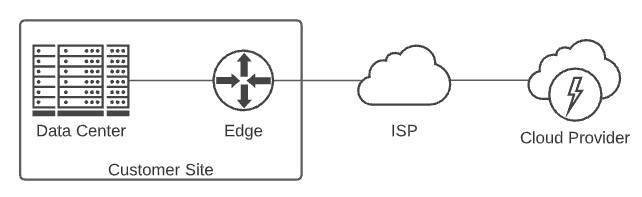
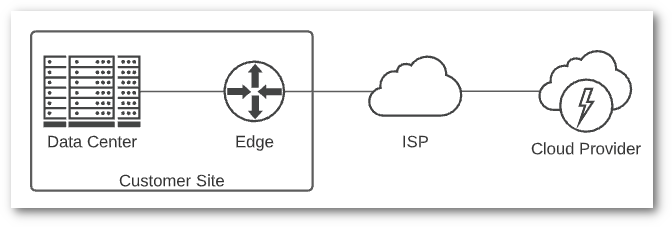
New post + drop shadows

Changed region(s): [[0.0, 0.0609, 0.9969, 0.9746], [0.5919, 0.5787, 0.6542, 0.7005]]

diff --git a/_posts/2020-11-17-cloud-connectivity-101.md b/_posts/2020-11-17-cloud-connectivity-101.md
@@ -1,0 +1,107 @@
+---
+layout: post
+theme: jekyll-theme-modernist
+title: "Cloud Connectivity 101"
+date: 2020-11-17
+comments: true
+---
+
+{: .center}
+![]({{ "/resources/2020/11/lightning.png" | absolute_url }})
+
+With my [prior post]({% link _posts/2020-11-12-network-princples-cloud.md %}) in mind, we can look at the various methods available for connecting to the cloud. This isn’t intended to be an exhaustive list, but it should cover the vast majority of your options.
+
+## Public IP
+**Pros**: Ubiquitous, inexpensive<br>
+**Cons**: Potentially insecure, no performance guarantees<br>
+**What you’ll need**: A business-class internet circuit<br>
+
+{: .center}
+![]({{ "/resources/2020/11/cloud-public-ip.png" | absolute_url }})
+
+Regardless of the other methods listed, you’ll connect to a cloud provider over Public IP the first time you connect to their console to set up your account. Depending on what you host in the cloud, this may be the only connectivity you need. It’s the easiest way to get to the cloud, but also the least secure. If you’re transferring sensitive information over the public internet, make sure you leverage modern application-based encryption, whether over TLS/HTTPS, SSH or some other protocol.
+
+Assuming we’re talking about [Infrastructure as a Service (IaaS)](https://en.wikipedia.org/wiki/Infrastructure_as_a_service) and running virtual instances in the cloud, there are variations between providers around how public IPs are assigned. It’s important to understand how your provider assigns addresses, and how they recommend exposing them to the internet. Frequently a load balancer is used for this, and it’s a good idea to use one even if you’re starting small. It’s easier to start with a load balancer than move to one later.
+
+Public connectivity is not well suited for the typical backend administrative access you’d see in a traditional data center. No security team would recommend exposing all your servers to the internet. Addressing this will likely require adding in one of the connection methods listed below, like a VPN.
+
+Cloud providers allow tight integration between resources you deploy and their hosted DNS solution, but it will still be up to you to configure it properly. Take time to learn the various network services provided, as they will be similar to the network appliances you deploy on prem, but the capabilities and requirements may be different from what you’re used to. As I mentioned previously, there are many options for applying security policy in the cloud, so developing a solid security strategy should be one of the first things you do.
+
+The remaining connection methods, apart from Direct Connection and Network as a Service, build on top of Public IP connectivity. 
+
+## Traditional VPN
+**Pros**: Secures sensitive traffic<br>
+**Cons**: Requires additional hardware or software, potential performance bottleneck, does not scale well<br>
+**What you’ll need**: Hardware or software capable of terminating an IPSec or SSL VPN tunnel<br>
+
+{: .center}
+![]({{ "/resources/2020/11/cloud-trad-ipsec.png" | absolute_url }})
+
+Layering a [VPN](https://en.wikipedia.org/wiki/Virtual_private_network) on top of Public IP connectivity will provide a secure connection into your cloud resources. All cloud providers support [IPSec](https://en.wikipedia.org/wiki/IPsec) tunnels, and most support establishing [BGP](https://en.wikipedia.org/wiki/Border_Gateway_Protocol) peering over the tunnel to exchange routes. If you need client-based SSL VPN you will need to deploy a network appliance in your cloud environment, but there are [numerous](https://aws.amazon.com/marketplace/b/Network-Infrastructure/2649366011) [options](https://azuremarketplace.microsoft.com/en-us/marketplace/apps/category/networking?subcategories=firewalls&page=1) [available](https://console.cloud.google.com/marketplace/browse?filter=category:networking).
+
+Using a VPN is the easiest way to build a [hybrid cloud](https://en.wikipedia.org/wiki/Cloud_computing#Hybrid_cloud) solution, and it will give you a secure way to access any instances you’ve deployed via their private IP. If you were paying attention to what I wrote earlier in my previous post, you know that you should have a good IP addressing scheme that includes non-overlapping IP ranges for everything you’re deploying on prem and in the cloud. This becomes even more important if you’re deploying resources into multiple regions in a single cloud provider, or multiple cloud providers.
+
+VPNs, like most technologies, evolve over time, so if you have an aging VPN solution in your environment you may want to consider replacing it with a modern one. Policy-based IPSec VPNs have been around for decades, but cloud providers are encouraging route-based VPNs, which is what you'll have to use if you want dynamic routing over VPN. As your environment scales, dynamic routing becomes increasingly important, so if you aren’t comfortable with BGP now is the time to learn it.
+
+## Layer 2 VPN
+**Pros**: IP Mobility<br>
+**Cons**: Requires additional hardware or software, potential performance bottleneck, not recommended for long term deployments<br>
+**What you’ll need**: Specialized hardware or software capable of building an L2 tunnel<br>
+
+{: .center}
+![]({{ "/resources/2020/11/cloud-l2vpn.png" | absolute_url }})
+
+A Layer 2 VPN is used to span a Layer 2 segment, typically a VLAN, across a WAN link. I don’t have scientific data to back this up, but I’d bet a milkshake that if you asked a hundred network engineers if spanning Layer 2 across sites is a good idea, ninety-nine of them would say no. Spanning layer 2 across sites, or over a VPN, introduces complexity and does not scale well. There are some good reasons to do it, but I would never recommend it as a long-term solution.
+
+Normally, a layer 2 VPN is used to migrate existing VMs to another site or cloud provider, while preserving assigned IP addresses. Common scenarios are disaster recovery and data center evacuation. I won’t go on another rant about the importance of DNS, but you can see why I climbed up on that soapbox. Putting that aside, if everyone involved knows the risks introduced by stretched L2, and it’s temporary, it can be a handy tool.
+
+There are a handful of options for L2 VPN, including [VMware HCX](https://cloud.vmware.com/vmware-hcx) and [NSX L2VPN](https://docs.vmware.com/en/VMware-NSX-T-Data-Center/2.5/administration/GUID-86C8D6BB-F185-46DC-828C-1E1876B854E8.html). These have been verified to work in supported cloud providers, but if you choose another solution, be careful to make sure that it is supported by your cloud provider. There is no traditional layer 2 forwarding in most native cloud provider networks, so an overlay like [VXLAN](https://en.wikipedia.org/wiki/Virtual_Extensible_LAN) or [GENEVE](https://en.wikipedia.org/wiki/Generic_Networking_Virtualization_Encapsulation) is used to emulate layer 2 semantics. These overlays encapsulate packets in UDP, so large packets will be fragmented when transmitted over a WAN link. Unless there is a solution for local traffic egress, there will be tromboning of traffic across the L2VPN for any remote endpoints to reach their default gateway.
+
+My advice is to stick to routed layer 3 traffic if possible, even if it takes some work to get there. L2VPN is a tool that can be deployed if absolutely necessary.
+
+## SD-WAN
+**Pros**: Flexibility, scalability, potential cost savings<br>
+**Cons**: Requires additional hardware or software, potential for vendor lock-in<br>
+**What you’ll need**: Hardware or software capable of building an SD-WAN mesh, like [VeloCloud](https://www.vmware.com/products/sd-wan-by-velocloud.html)<br>
+
+{: .center}
+![]({{ "/resources/2020/11/cloud-sdwan.png" | absolute_url }})
+
+[Software Defined WAN (SD-WAN)](https://en.wikipedia.org/wiki/SD-WAN) may be the most exciting advancement in the world of networking in the past decade. Building and maintaining VPN connections is a tough job, especially at scale. SD-WAN makes this process much simpler, since all the heavy lifting of creating tunnels, monitoring connectivity, and intelligently routing traffic between locations is handled by a controller. There are potential cost savings as well. Many businesses have replaced their expensive MPLS networks with SD-WAN meshes running over redundant internet connections.
+
+Currently SD-WAN is not standardized, and each vendor offering has its own unique feature set. You will need to do some homework on your own to find the solution that works best for your environment and cloud providers. If you’re considering hybrid-cloud or multi-cloud deployments, you should certainly look at SD-WAN for connecting your environments.
+
+## Direct Connection
+**Pros**: High-bandwidth, low-latency cloud connectivity<br>
+**Cons**: Cost<br>
+**What you’ll need**: A point-to-point circuit from a local telco that provides connectivity to the cloud provider of your choice, and a router or firewall capable of terminating the circuit<br>
+
+{: .center}
+![]({{ "/resources/2020/11/cloud-directconnect.png" | absolute_url }})
+
+One of the challenges of working with the cloud is nomenclature. Cloud providers offer so many capabilities, and each offering has a name that has been carefully crafted by their marketing department. You may see a direct connection to a cloud provider referred to as Direct Connect, Express Route, Cloud Interconnect, Fast Connect, or Direct Express Cloud Bonanza. Okay, the last one is fake, but you get the point.
+
+While there is some variation between how the various cloud providers handle direct connections, this is a straightforward path to the cloud. If you are in a standalone data center, you will likely be working with your local telco to provision a circuit from your data center to the cloud provider of your choice. If you have an existing MPLS network, you may be able to have a “leg” connected to a cloud provider as an alternative. Many colocation facilities are offering direct circuits or cross-connects to the closest geographic cloud regions, so check your colocation offerings if that is where your equipment resides.
+
+Review your cloud provider’s documentation for the technical requirements and ordering process for a direct connection. Once the physical circuit is installed, there will be a setup process to complete in the cloud provider portal. Depending on whether you want connection to private resources (e.g. virtual instances deployed with private addresses) or public resources (e.g. provider offerings like object storage), you will need to follow the provider documentation to set up routing across your connection. Most likely this will involve bringing up a BGP peering with the provider between your network and theirs. You may be required to have your own [Autonomous System Number (ASN)](https://en.wikipedia.org/wiki/Autonomous_system_(Internet)) and dedicated public IP address range to access public resources over a direct connection.
+
+I will explore the specifics of the various cloud provider direct connection options in a future post.
+
+## Network as a Service (NaaS)
+**Pros**: High-bandwidth, low-latency cloud connectivity, and the ability to dynamically provision cloud connections<br>
+**Cons**: Cost, only available in limited locations<br>
+**What you’ll need**: A cross connect to the NaaS provider, and compatible hardware to terminate the connection<br>
+
+{: .center}
+![]({{ "/resources/2020/11/cloud-naas.png" | absolute_url }})
+
+The last connection method I’ll mention is what some refer to as [Network as a Service (NaaS)](https://en.wikipedia.org/wiki/Network_as_a_service). This is similar to a direct connection, but with much more flexibility. [Megaport](https://www.megaport.com/) and [Equinix Cloud Exchange Fabric](https://www.equinix.com/interconnection-services/cloud-exchange-fabric/) are two examples of this type of service. Typically, you will need to be in a colocation facility to connect to a NaaS provider.  If you’re in a standalone data center, you could provision a circuit to your closest NaaS provider and connect via that method.
+
+Once physically connected to your network, NaaS providers allow you to dynamically provision virtual circuits to cloud providers, managed service providers (MSPs), other data centers, or directly to an ISP. The strength of this solution is in its flexibility. Many NaaS providers provide an API to provision virtual circuits, meaning you could dynamically create and destroy connections to various cloud providers as needed.
+
+If you are looking for high-speed, low-latency connectivity to the cloud, and NaaS is available to you, it’s a great choice.
+
+## Wrap Up
+I’ll be exploring additional topics pertaining to cloud connectivity in future posts, but I hope this is a helpful rundown of the options. To recap, you should have a fully developed plan before you provision any sort of cloud connectivity. The actual connectivity, whether it be over the internet, VPN, or direct connection, will depend on several factors. Budget is likely the biggest hurdle for most, and you will pay for better performance. 
+
+When making your decision, consider the words of [Eyvonne Sharp](https://twitter.com/SharpNetwork/status/1326917912347734025), "A myopic focus on cost, instead of business value, is the bane of IT.  It is also a harbinger of irrelevance."

diff --git a/_posts/2020-11-12-network-princples-cloud.md b/_posts/2020-11-12-network-princples-cloud.md
@@ -9,7 +9,7 @@ excerpt: Over the past few years, I’ve encountered all sorts of confusion abou
 {: .center}
 ![]({{ "/resources/2020/11/clouds.png" | absolute_url }})
 
-Over the past few years, I’ve encountered all sorts of confusion about how cloud resources should be architected, accessed, and consumed. In this post, which is the first in a series, I will walk through some networking basics relevant to cloud connectivity. The next post will cover methods for connecting to cloud providers, and subsequent posts will dive deeper into specific topics. 
+Over the past few years, I’ve encountered all sorts of confusion about how cloud resources should be architected, accessed, and consumed. In this post, which is the first in a series, I will walk through some networking basics relevant to cloud connectivity. The [next post]({% link _posts/2020-11-17-cloud-connectivity-101.md %}) covers methods for connecting to cloud providers, and subsequent posts will dive deeper into specific topics. 
 
 # Network Basics
 
